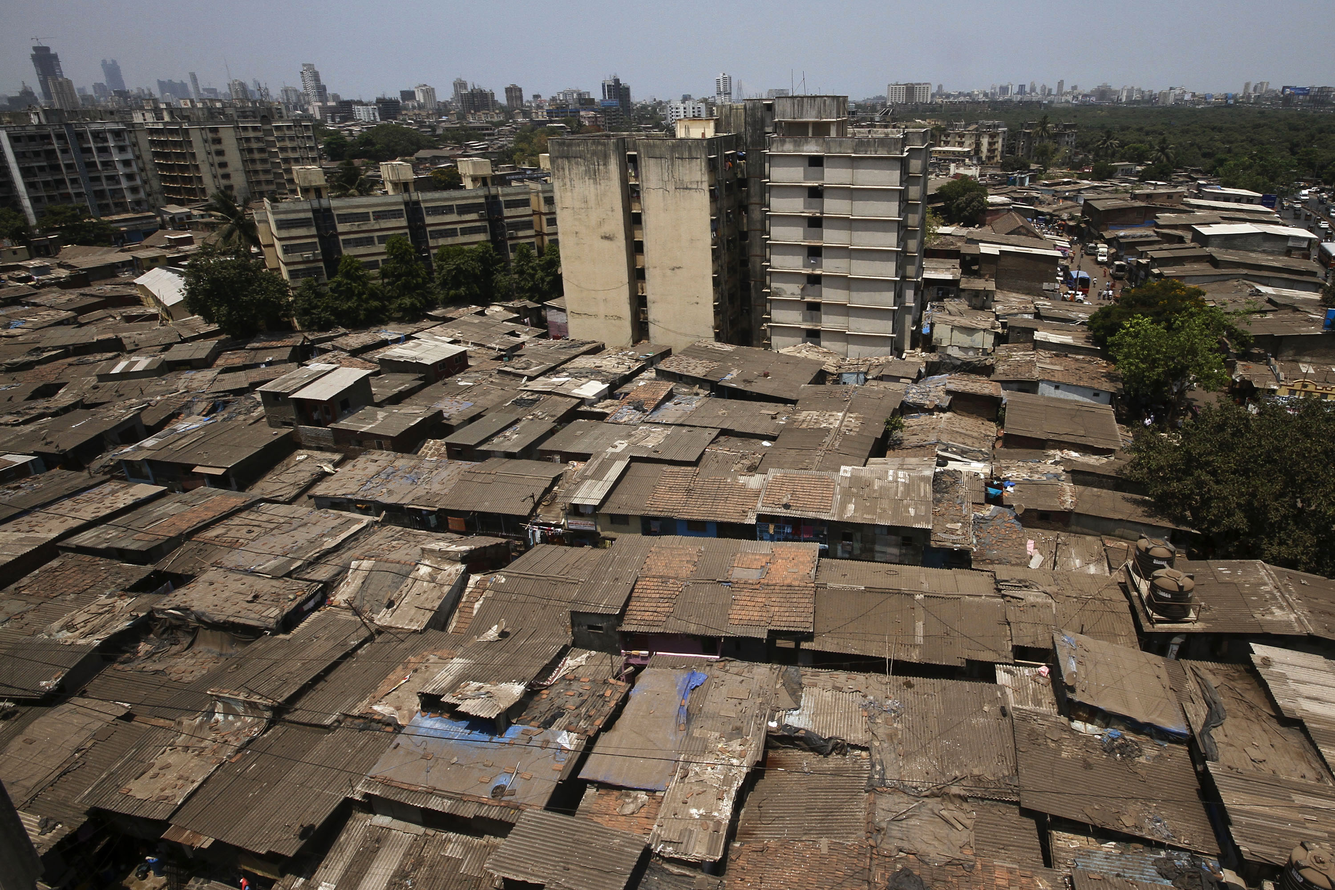
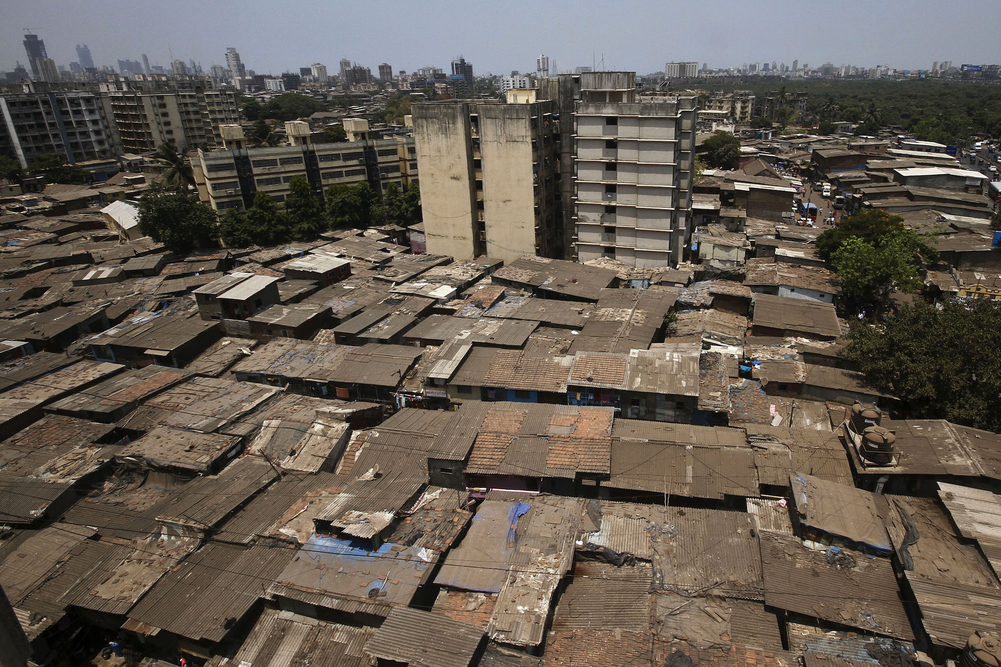
complete initial layout and styling for project reqs

diff --git a/index.html b/index.html
@@ -17,9 +17,7 @@
 
   <body>
     <div id="background-caption">
-      <p>
-        The Dharavi slum sits tucked under multi-story buildings in Mumbai, India. Photographer: Dhiraj Singh/Bloomberg Source: <a href="http://www.bloomberg.com/news/articles/2015-02-23/modi-seeks-to-replace-crowded-india-slums-with-20-million-homes">Bloomberg News</a>
-      </p>
+      <p>The Dharavi slum sits tucked under multi-story buildings in Mumbai, India. Photographer: Dhiraj Singh / Bloomberg Source: <a href="http://www.bloomberg.com/news/articles/2015-02-23/modi-seeks-to-replace-crowded-india-slums-with-20-million-homes">Bloomberg News</a></p>
     </div>
     <div class="container">
       <h1>Adoption</h1>
@@ -39,7 +37,6 @@
           This guy doesn't know if you should adopt either? Maybe you can both figure it out.
         </p>
       </div>
-
       <div id="charts">
         <h3>Look at these charts!</h3>
           <table>
@@ -60,8 +57,6 @@
           As you can see, human population is growing at a rate far in excess to the growth rate of earth's surface area.  This is a <strong>Bad Trend!</strong>
         </p>
       </div>
-
-
       <div id="gallery">
         <h3>Kids aren't so bad!</h3>
         <div class="square">

diff --git a/css/styles.css b/css/styles.css
@@ -57,18 +57,17 @@ q:before, q:after {
 }
 
 body::before {
-  content: ' ';
+    content: ' ';
     display: block;
     position: absolute;
     left: 0;
     top: 0;
-    width: 100%;
-    height: 100%;
+    width: 2250px;
+    height: 1500px;
     z-index: 1;
     opacity: 0.6;
     background-image: url('../img/background.jpg');
     background-repeat: no-repeat;
-    background-position: 50% 0;
     background-size: cover;
 }
 
@@ -83,23 +82,23 @@ body::before {
   border: 0px solid #000000;
 }
 
-#background-caption {
-  position: absolute;
+#background-caption p {
+  position: fixed;
   bottom: 20px;
-  right: 20px;
+  left: 20px;
   color: white;
   background-color: black;
   opacity: 0.8;
   z-index: 2;
-  padding: 0.8em;
+  padding: 5px;
   width: 150px;
-  font-size: 0.7em;
+  font-size: 8pt;
 }
 
 .container {
   width: 750px;
   height: 1300px;
-  margin-top: 100px;
+  margin-top: 50px;
   margin-right: auto;
   margin-left: auto;
   padding: 50px;
@@ -177,6 +176,11 @@ ul {
 
 li {
   padding-bottom: 10px;
+}
+
+li:nth-child(even) {
+  color: #3333cc;
+
 }
 
 #kid-questioning-caption {
